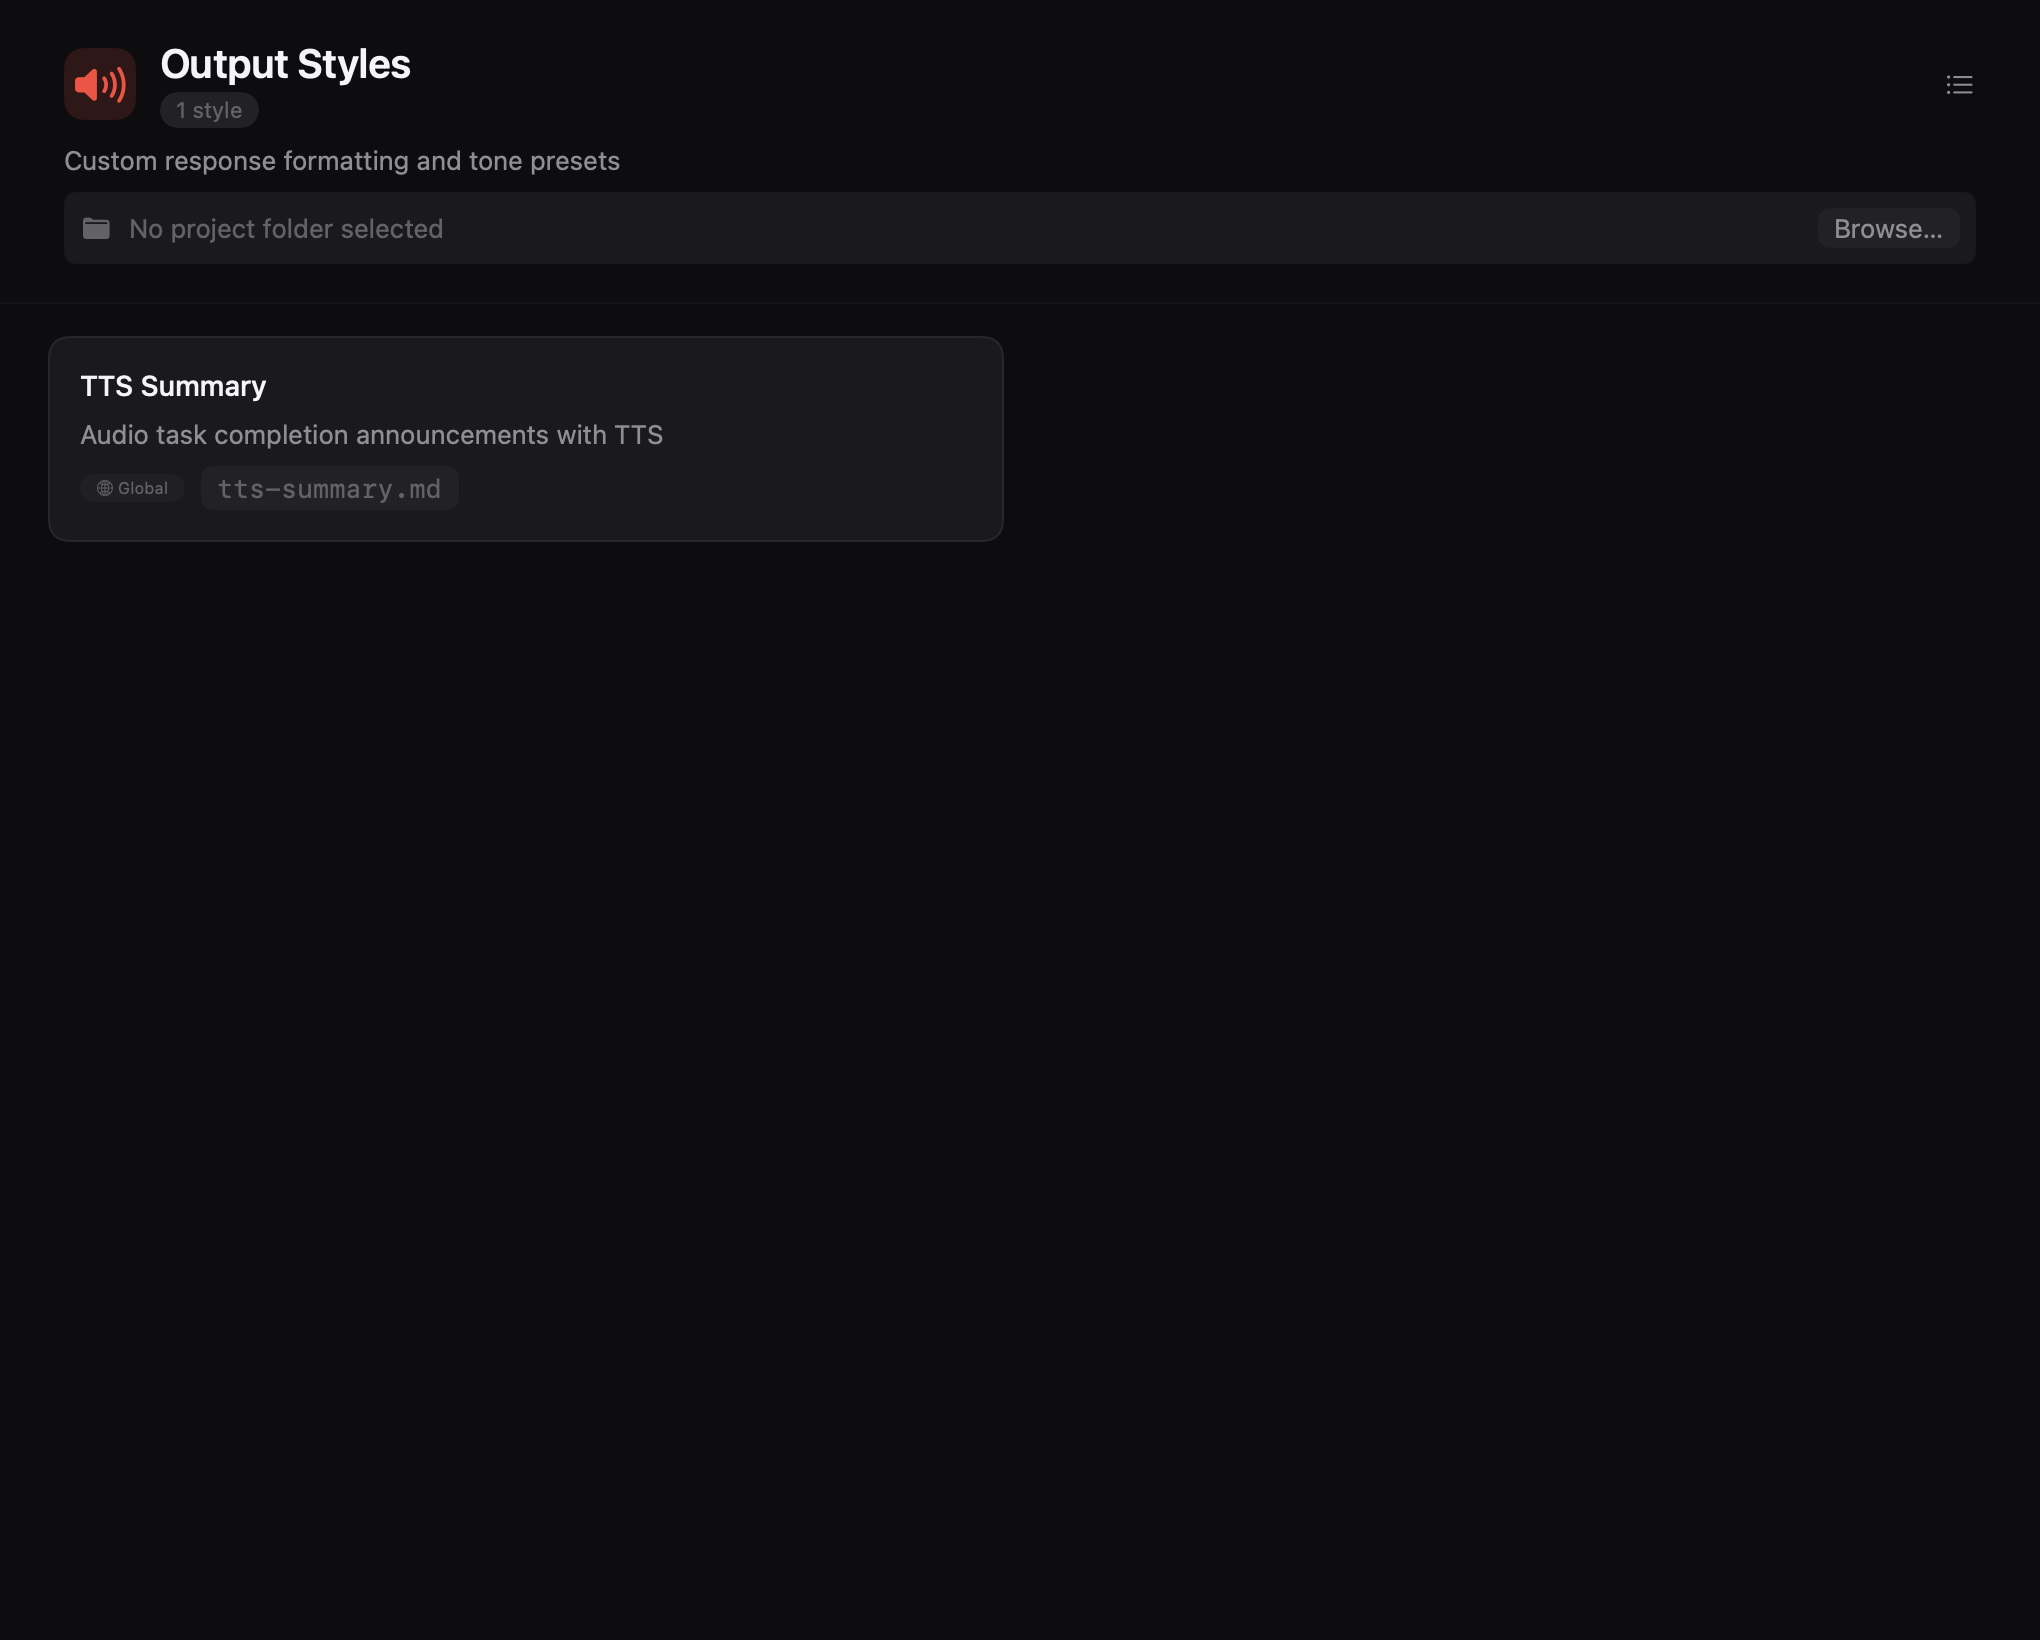
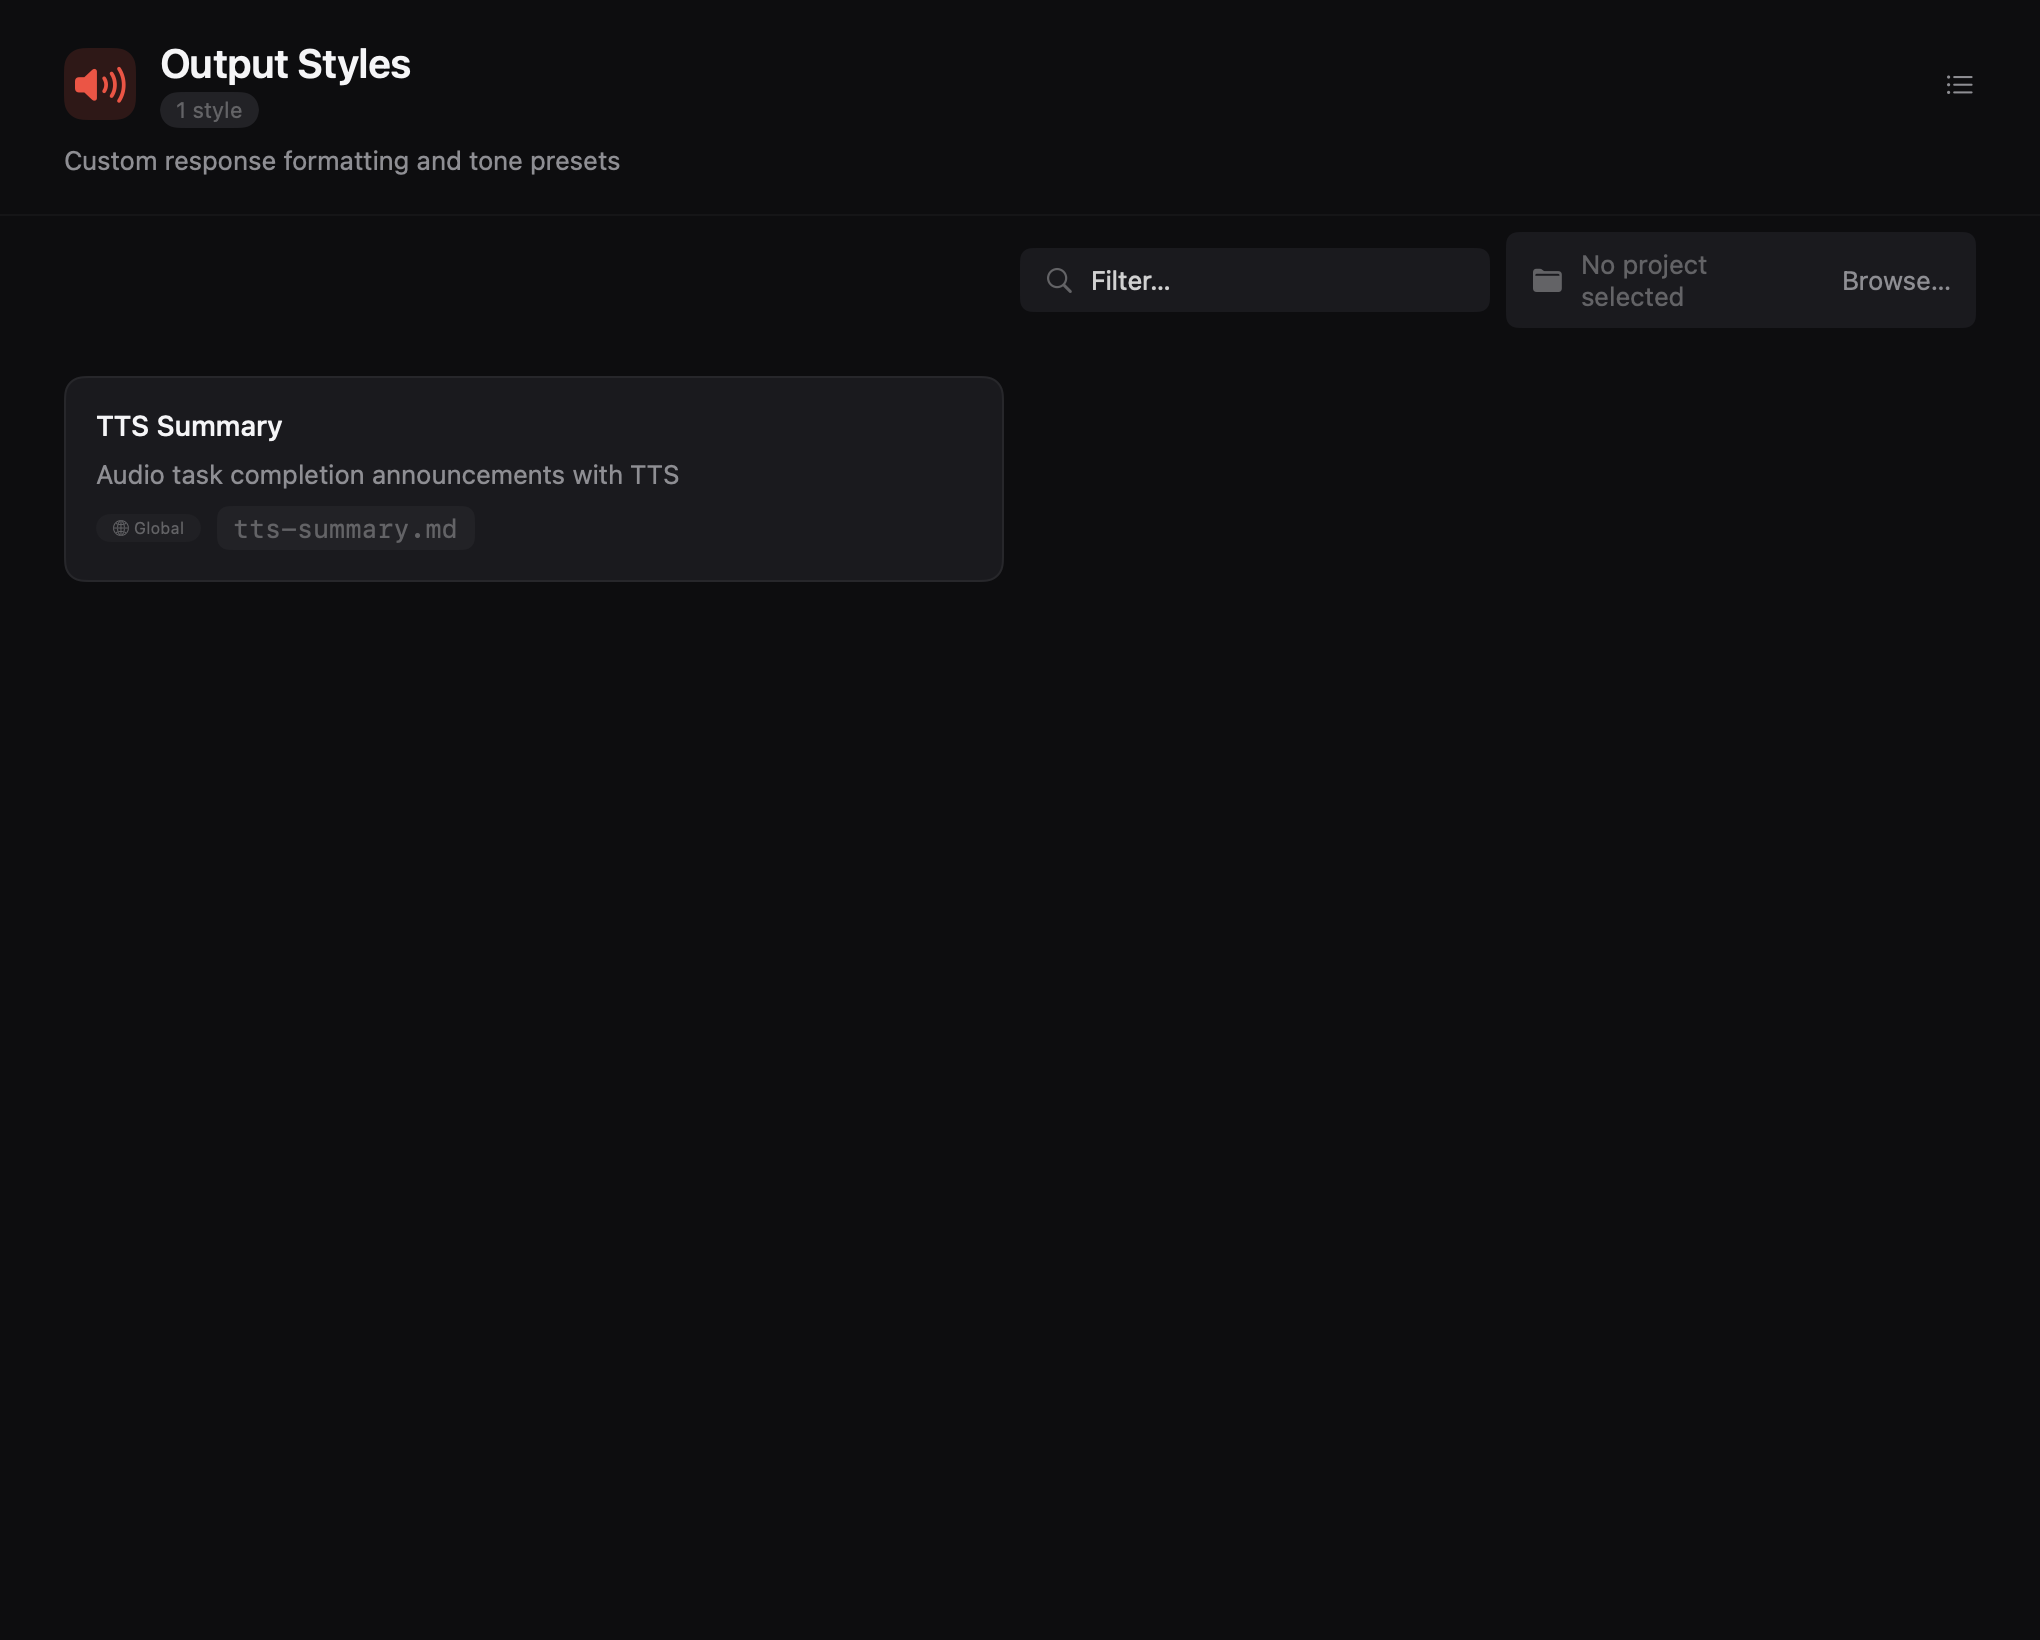
Align filter bar to 25% width and re-record all showcase screenshots

diff --git a/Poirot/Sources/Views/Todos/TodosOverviewView.swift b/Poirot/Sources/Views/Todos/TodosOverviewView.swift
@@ -66,9 +66,15 @@ struct TodosOverviewView: View {
             header
 
             if !sessionEntries.isEmpty {
-                ConfigFilterField(searchQuery: $filterQuery)
-                    .padding(.horizontal, PoirotTheme.Spacing.xxxl)
-                    .padding(.vertical, PoirotTheme.Spacing.sm)
+                HStack(spacing: 0) {
+                    Spacer().frame(maxWidth: .infinity)
+                    Spacer().frame(maxWidth: .infinity)
+                    Spacer().frame(maxWidth: .infinity)
+                    ConfigFilterField(searchQuery: $filterQuery)
+                        .frame(maxWidth: .infinity)
+                }
+                .padding(.horizontal, PoirotTheme.Spacing.xxxl)
+                .padding(.vertical, PoirotTheme.Spacing.sm)
             }
 
             if !isLoaded {

diff --git a/Poirot/Sources/Views/Config/PluginsListView.swift b/Poirot/Sources/Views/Config/PluginsListView.swift
@@ -39,9 +39,15 @@ struct PluginsListView: View {
             )
 
             if !plugins.isEmpty {
-                ConfigFilterField(searchQuery: $filterQuery)
-                    .padding(.horizontal, PoirotTheme.Spacing.xxxl)
-                    .padding(.vertical, PoirotTheme.Spacing.sm)
+                HStack(spacing: 0) {
+                    Spacer().frame(maxWidth: .infinity)
+                    Spacer().frame(maxWidth: .infinity)
+                    Spacer().frame(maxWidth: .infinity)
+                    ConfigFilterField(searchQuery: $filterQuery)
+                        .frame(maxWidth: .infinity)
+                }
+                .padding(.horizontal, PoirotTheme.Spacing.xxxl)
+                .padding(.vertical, PoirotTheme.Spacing.sm)
             }
 
             if !isLoaded {

diff --git a/Poirot/Sources/Views/Plans/PlansListView.swift b/Poirot/Sources/Views/Plans/PlansListView.swift
@@ -77,9 +77,15 @@ struct PlansListView: View {
             )
 
             if !plans.isEmpty {
-                ConfigFilterField(searchQuery: $filterQuery)
-                    .padding(.horizontal, PoirotTheme.Spacing.xxxl)
-                    .padding(.vertical, PoirotTheme.Spacing.sm)
+                HStack(spacing: 0) {
+                    Spacer().frame(maxWidth: .infinity)
+                    Spacer().frame(maxWidth: .infinity)
+                    Spacer().frame(maxWidth: .infinity)
+                    ConfigFilterField(searchQuery: $filterQuery)
+                        .frame(maxWidth: .infinity)
+                }
+                .padding(.horizontal, PoirotTheme.Spacing.xxxl)
+                .padding(.vertical, PoirotTheme.Spacing.sm)
             }
 
             if !isLoaded {
